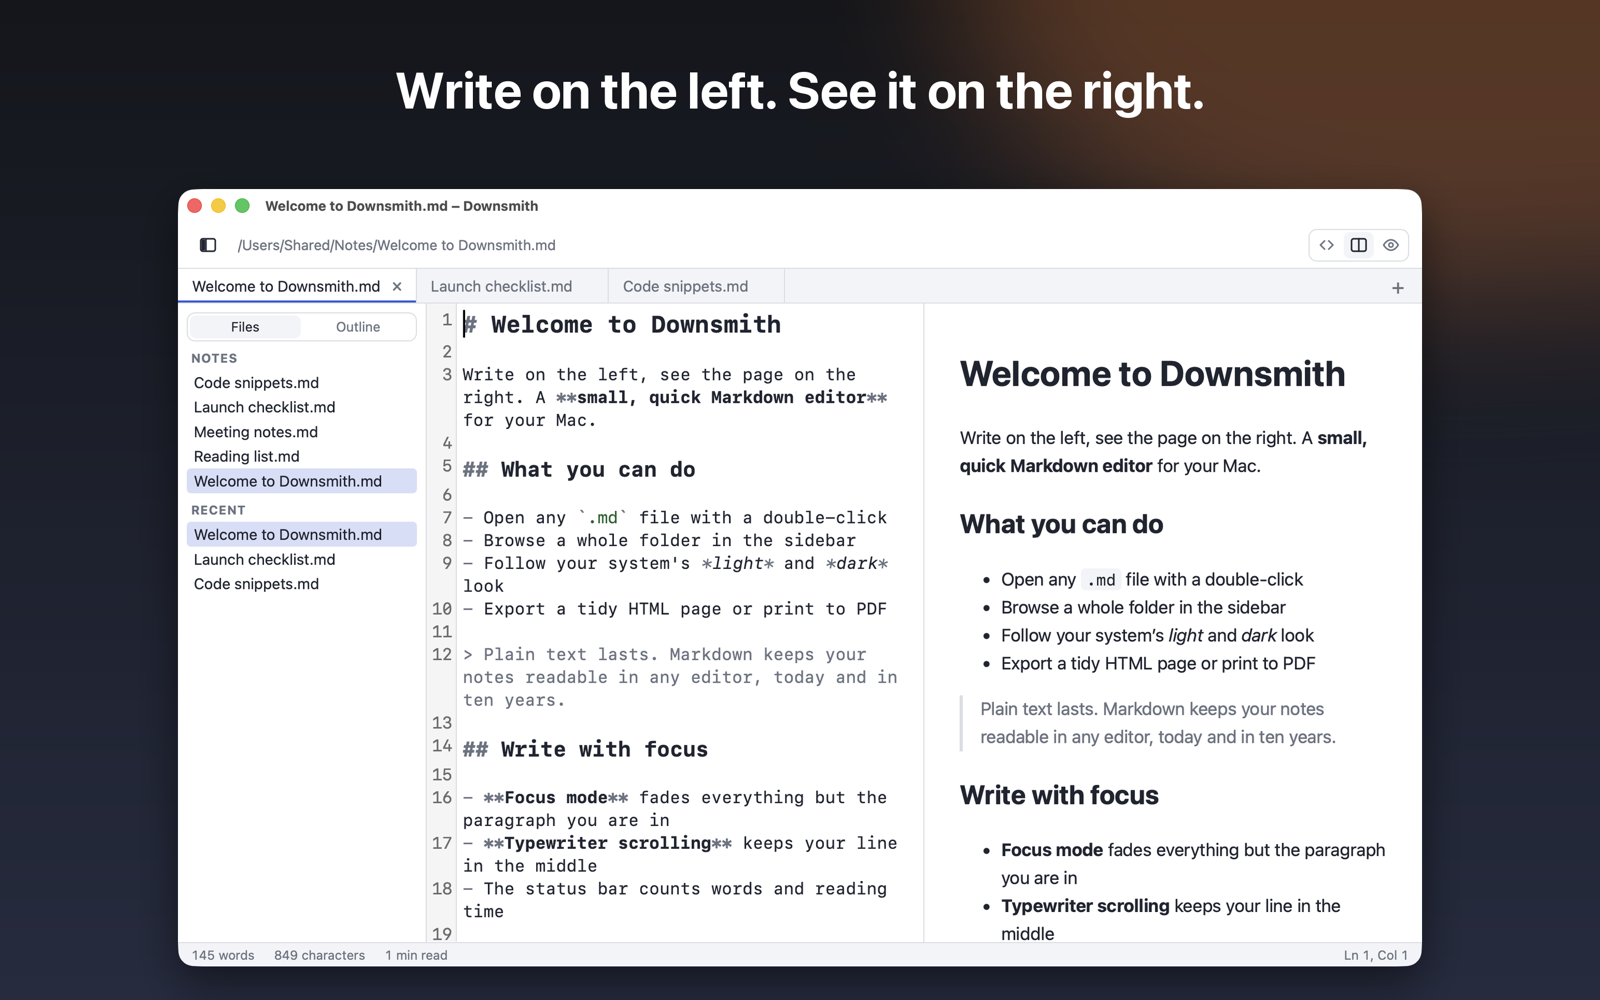
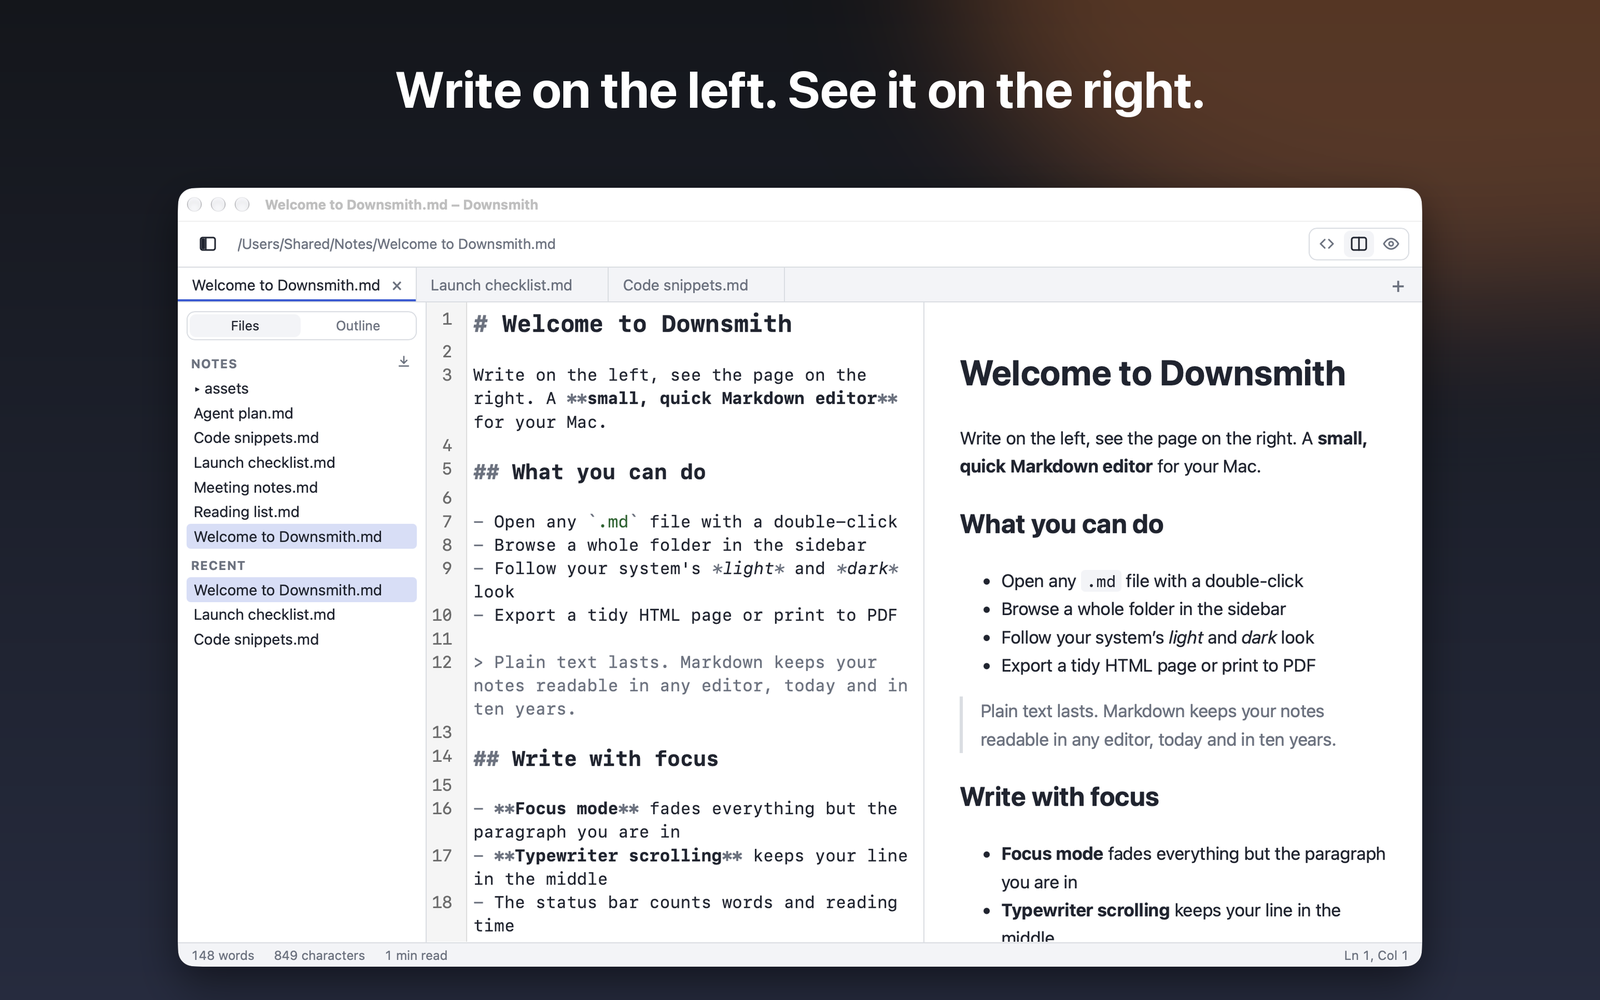
docs: update README

diff --git a/README.md b/README.md
@@ -6,7 +6,7 @@
 
 <p align="center">
   <strong>Shape your Markdown.</strong><br>
-  A small, quick Markdown editor for macOS and Linux. Write on the left, see the finished page on the right.
+  A small, quick Markdown editor for macOS and Linux, built for AI agents: watch them write, see what changed.
 </p>
 
 <p align="center">
@@ -26,12 +26,14 @@
 <p align="center">
   <picture>
     <source media="(prefers-color-scheme: dark)" srcset="img/app-dark.png">
-    <img src="img/app-light.png" alt="Downsmith window: tabs on top, a folder sidebar, the Markdown source in the middle and the rendered page on the right" width="860">
+    <img src="img/app-light.png" alt="Downsmith window after an AI agent changed the open plan: a bar counts the changes, the changed lines are marked in the source and the preview, and the preview shows the plan's diagram" width="860">
   </picture>
 </p>
 
 ## Why Downsmith
 
+- **Built for AI agents.** Coding agents write plans, specs and notes as Markdown. Downsmith follows the file as the agent rewrites it and marks what changed, in the source and in the preview, with *Next change* and *Seen*. It can also follow the newest Markdown file of a folder. Downsmith itself has no AI and sends nothing anywhere.
+- **Images.** Local images (also SVG) show in the preview. Paste a screenshot or drop an image into the editor and it is copied into an `assets` folder next to the document. Images from the web are not loaded.
 - **Live preview.** Source on the left, rendered page on the right, scrolling together. Tables, task lists you can tick off, footnotes, note boxes and code blocks with syntax highlighting.
 - **Write.** Bold, italic, links and headings from the Format menu. Focus mode fades everything but the current paragraph, typewriter scrolling keeps your line in the middle, and a status bar counts words and reading time.
 - **Find and jump.** Search and replace, and an outline of your headings in the sidebar.
@@ -48,18 +50,37 @@
 
 <table>
   <tr>
-    <td width="50%"><img src="img/02-tables-and-tasks.png" alt="Tables and task lists in the preview"></td>
-    <td width="50%"><img src="img/03-code.png" alt="Code blocks with syntax highlighting"></td>
+    <td width="50%"><img src="img/02-agent-changes.png" alt="After an AI agent changed the plan: the changed lines are marked in the source and the preview"></td>
+    <td width="50%"><img src="img/03-tables-and-tasks.png" alt="Tables and task lists in the preview"></td>
   </tr>
   <tr>
-    <td width="50%"><img src="img/04-dark-mode.png" alt="Dark mode"></td>
-    <td width="50%"><img src="img/05-folders.png" alt="A folder of notes in the sidebar"></td>
+    <td width="50%"><img src="img/04-code.png" alt="Code blocks with syntax highlighting"></td>
+    <td width="50%"><img src="img/05-dark-mode.png" alt="Dark mode"></td>
   </tr>
   <tr>
-    <td width="50%"><img src="img/06-views.png" alt="Only the preview, with the source and both-panes buttons in the toolbar"></td>
+    <td width="50%"><img src="img/06-folders.png" alt="A folder of notes in the sidebar"></td>
+    <td width="50%"><img src="img/07-views.png" alt="Only the preview, with the source and both-panes buttons in the toolbar"></td>
+  </tr>
+  <tr>
+    <td width="50%"><img src="img/08-outline.png" alt="The outline of a note in the sidebar"></td>
     <td width="50%"><img src="img/01-write-and-preview.png" alt="Several notes in tabs, source on the left and preview on the right"></td>
   </tr>
 </table>
+
+## Use it with your agent
+
+Open the file your agent is working on:
+
+```sh
+open -a Downsmith plan.md   # macOS
+downsmith plan.md           # Linux (.deb and .rpm packages)
+```
+
+To let the agent do it, add a line like this to its instructions file (`AGENTS.md` or `CLAUDE.md`):
+
+> When you write a plan or spec, open it with `open -a Downsmith <file>` so I can follow it.
+
+Switch on **View > Follow Newest File** to have Downsmith open whichever Markdown file in the sidebar's folder was written last.
 
 ## Install
 
@@ -103,6 +124,7 @@ The packages need WebKitGTK 4.1 (`libwebkit2gtk-4.1`). The Linux builds are new 
 | Focus mode / typewriter scrolling | `⇧⌘F` / `⌥⌘T` | `Ctrl+Shift+F` / `Ctrl+Alt+T` |
 | Status bar | `⌘/` | `Ctrl+/` |
 | Show outline / show files | `⌥⌘O` / `⌥⌘L` | `Ctrl+Alt+O` / `Ctrl+Alt+L` |
+| Next / previous change | `⌥⌘↓` / `⌥⌘↑` | `Ctrl+Alt+Down` / `Ctrl+Alt+Up` |
 
 ## Support
 
